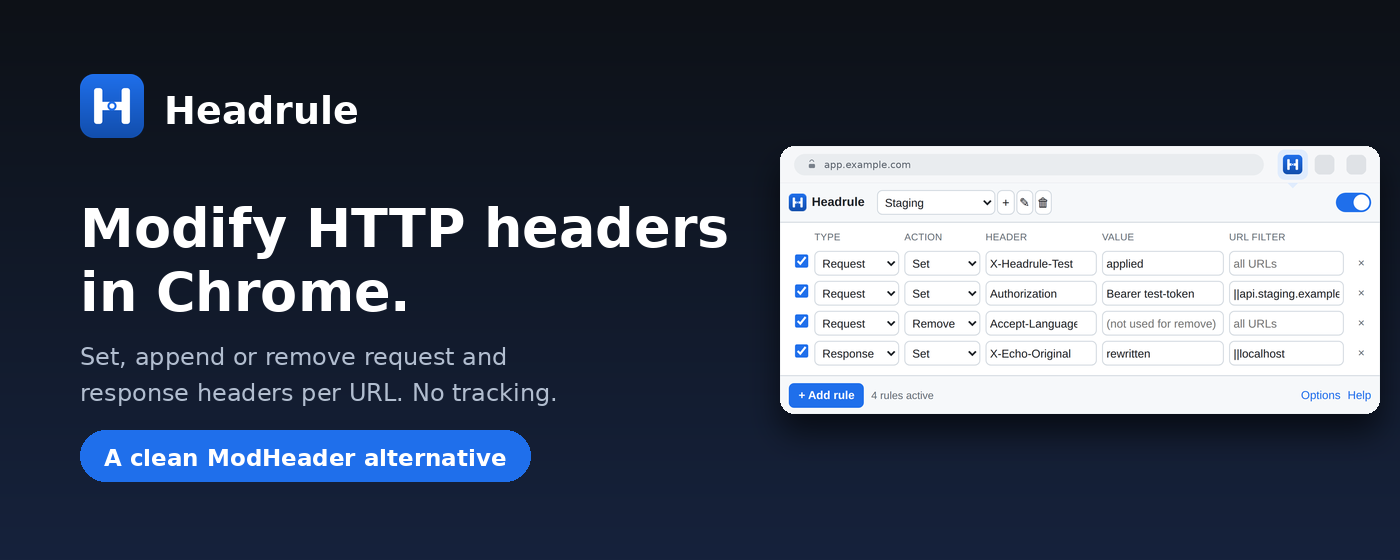
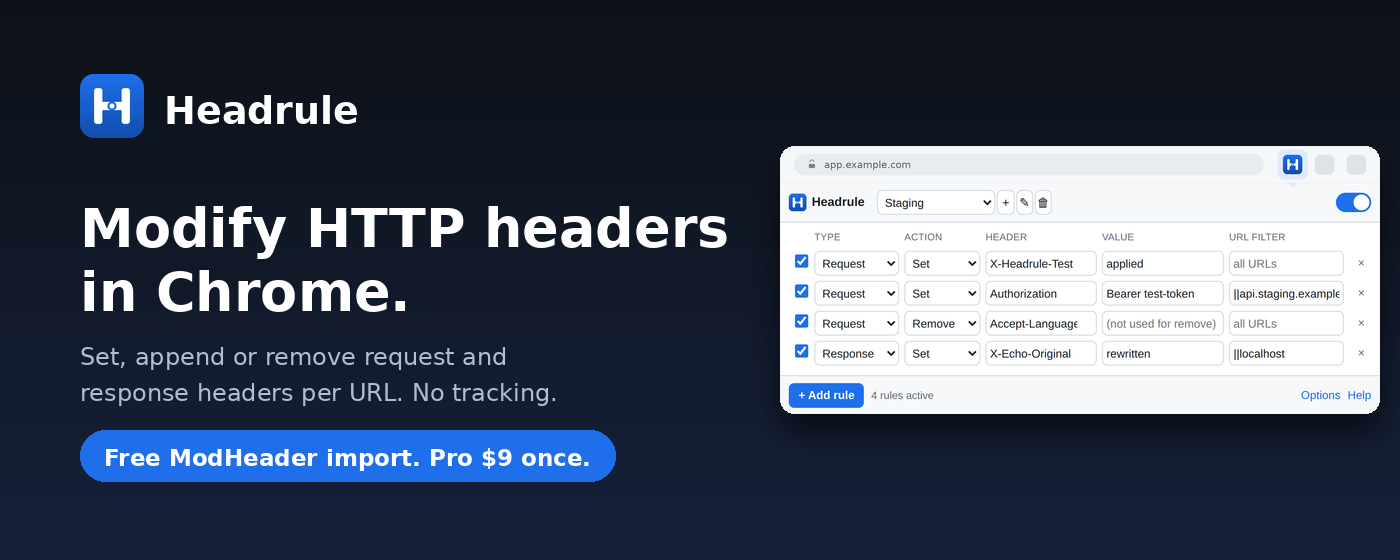
Marquee tile: drop "clean", say free import and $9 once
Claude-Session: https://claude.ai/code/session_01Aoh9VnSDh1ui5H1CqZPicR

Changed region(s): [[0.0614, 0.7589, 0.4607, 0.8804]]

diff --git a/scripts/make_marquee.py b/scripts/make_marquee.py
@@ -81,7 +81,7 @@ for line in sub:
     d.text((LEFT, y), line, font=fs, fill=(178, 190, 208))
     y += ssize + 12
 
-label = "A clean ModHeader alternative"
+label = "Free ModHeader import. Pro $9 once."
 psize = 23
 while psize > 14:
     pf = ImageFont.truetype(FONT_B, psize)
